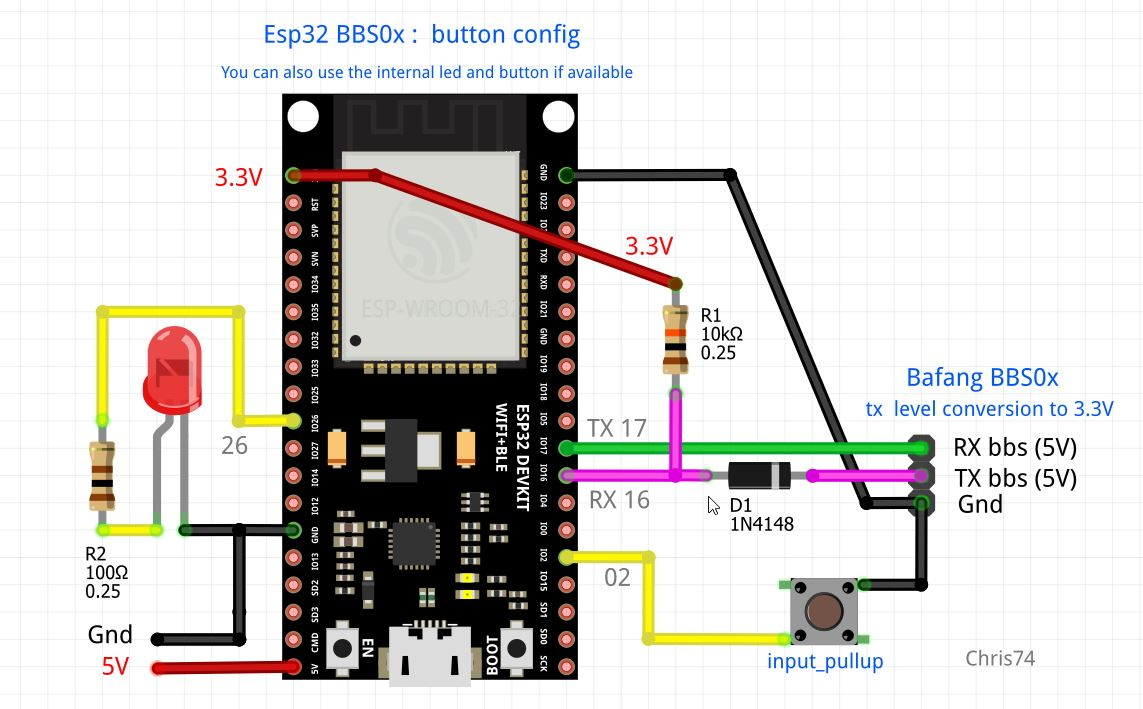
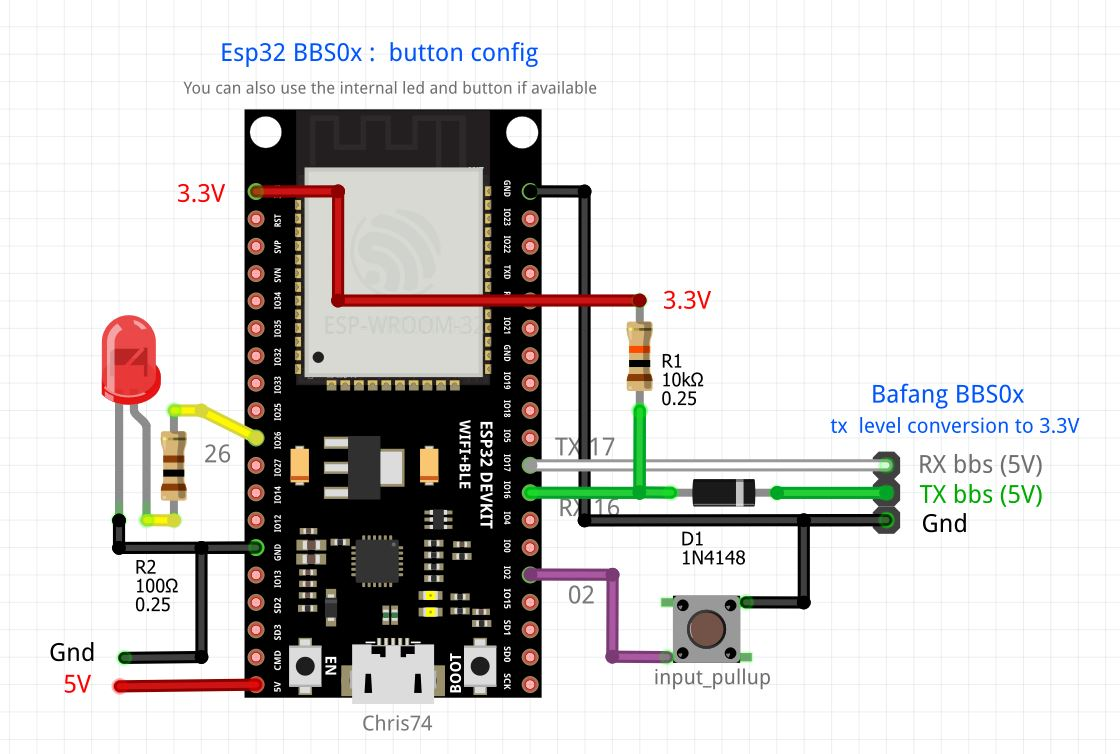
add pic

Changed region(s): [[0.0312, 0.031, 0.9688, 0.9929], [0.8438, 0.8999, 0.9062, 0.9619]]

diff --git a/README.md b/README.md
@@ -89,6 +89,10 @@ To go further, see the complete examples
 ## Examples 
 :file_folder: (more images and documents see the /docs folder)
 
+<p align="left">
+  <img src="./docs/bbs_webserial_esp32/diagram_higo_bbs.jpg" width="500" title="Pico">
+</p>
+
 ### Simple sketch with Led and button (Arduino/Esp)
 Minimum version: Modify or check your configuration file "BbsSetting.h" A short press of the button will transmit the new settings to your controller. If successful, the led will flash several times quickly!  
 If fails, the LED will not flash.  
@@ -102,7 +106,7 @@ If fails, the LED will not flash.
 ### WebSerial (Esp only)
 Examples with webserial console and OTA Wifi.   
 Allows you to configure and check completely remotely by wifi!  
-Note: it is possible to use this circuit for other serial applications. For example, I also use mine to set up a Xiaoxiang Smart BMS by PC Bluethoot :wink:
+Note: it is possible to use this circuit for other serial bridge applications. For example, I also use mine to set up a Xiaoxiang Smart BMS by Bluethoot and PC xiaoxiang software. 
 - [BBS_webserial_cmd](./examples)
 
 <p align="left">
@@ -123,7 +127,7 @@ Spreadsheet for generating or verifying complete BBSxx frames. There is also a l
   <img src="./docs/Excel/screen_basic.jpg" width="600" title="Excel">
 </p>
 
-Long live BBSxx! :blush:
+
 
 
 
